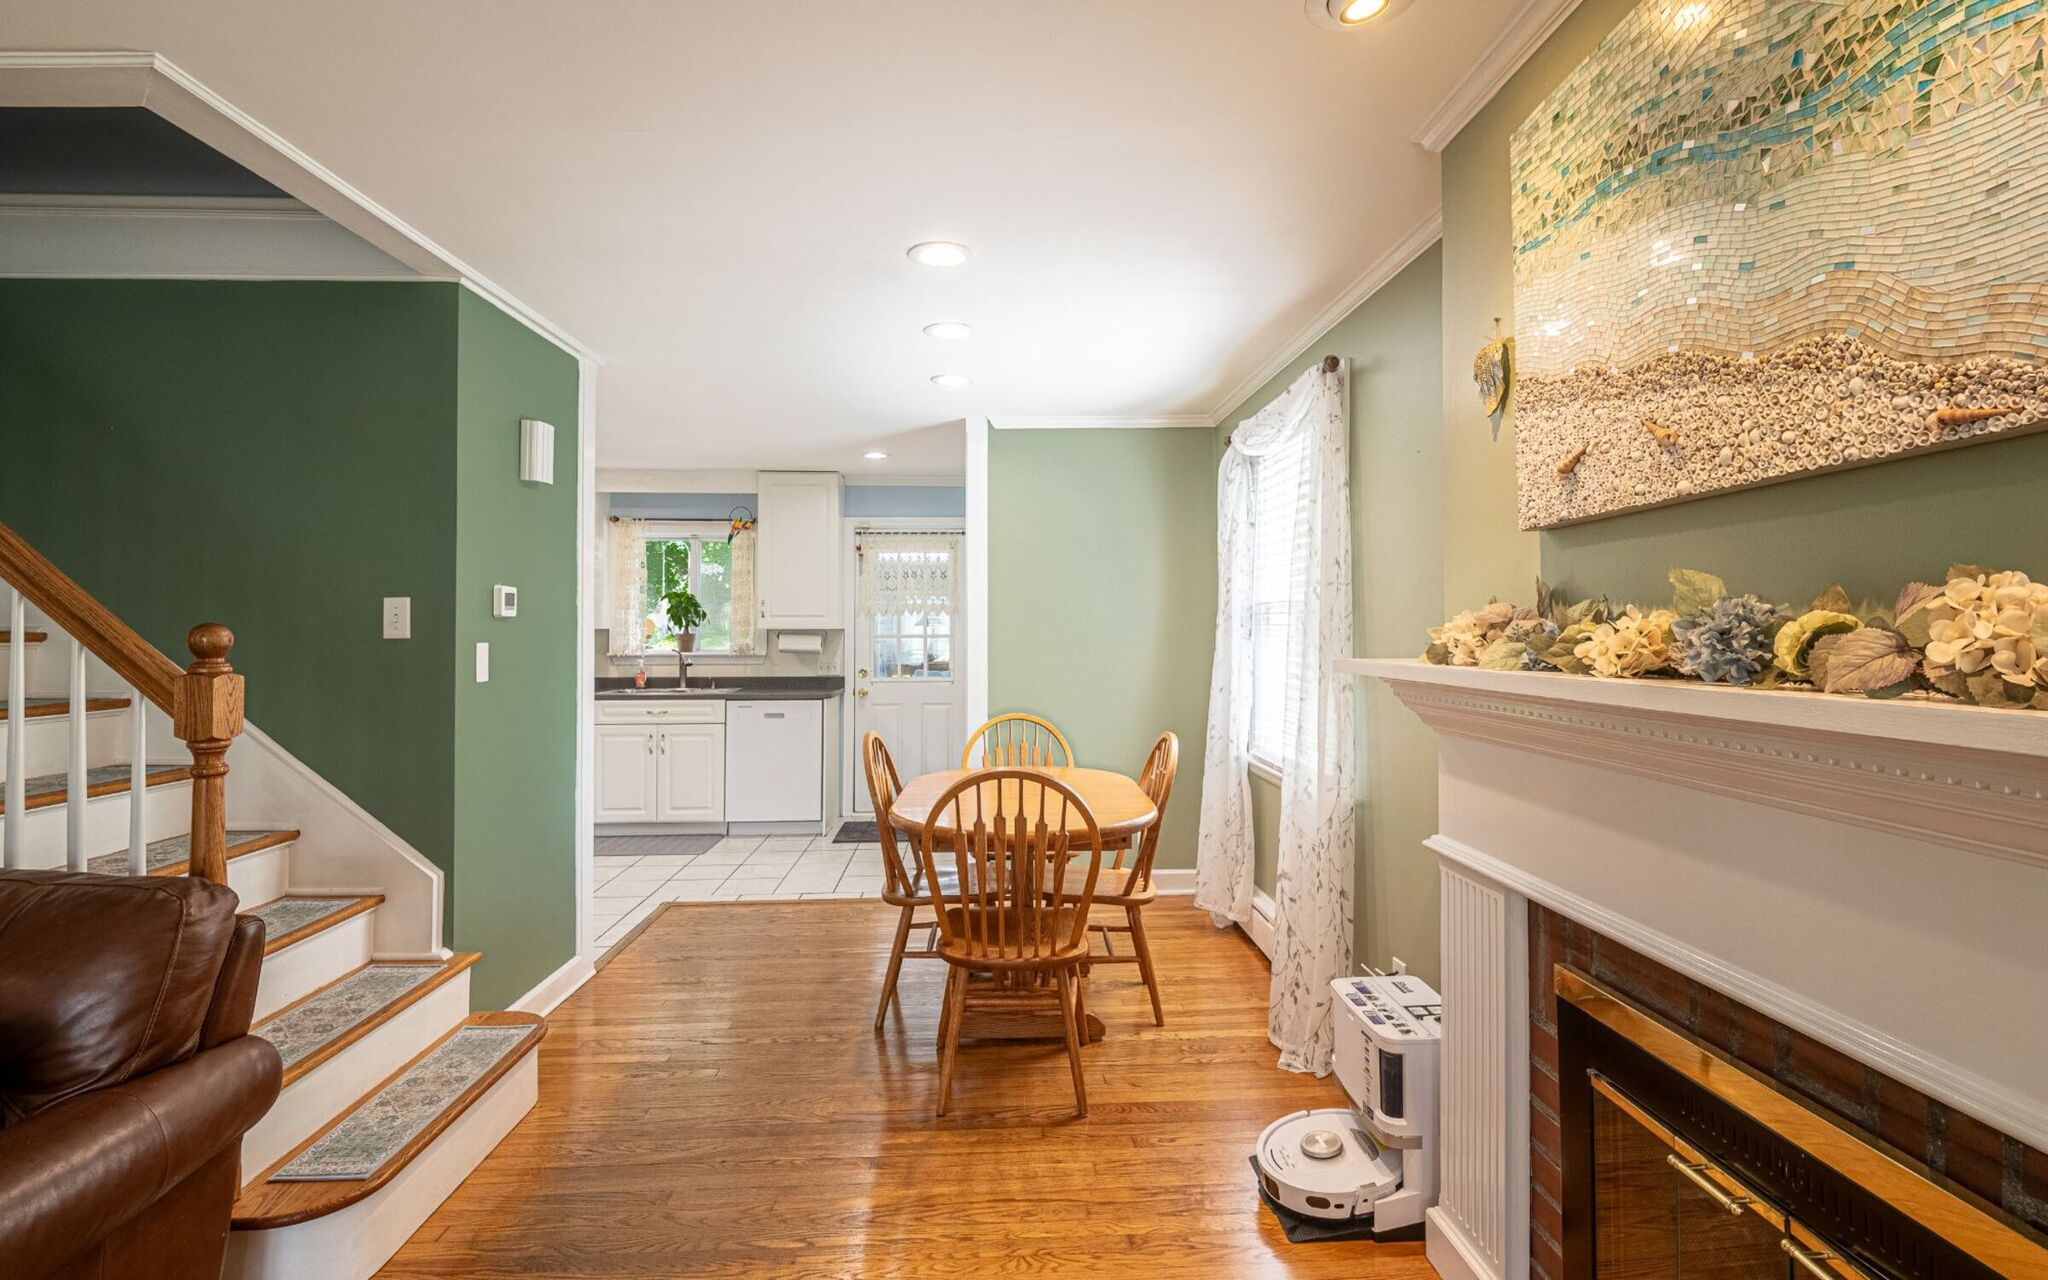
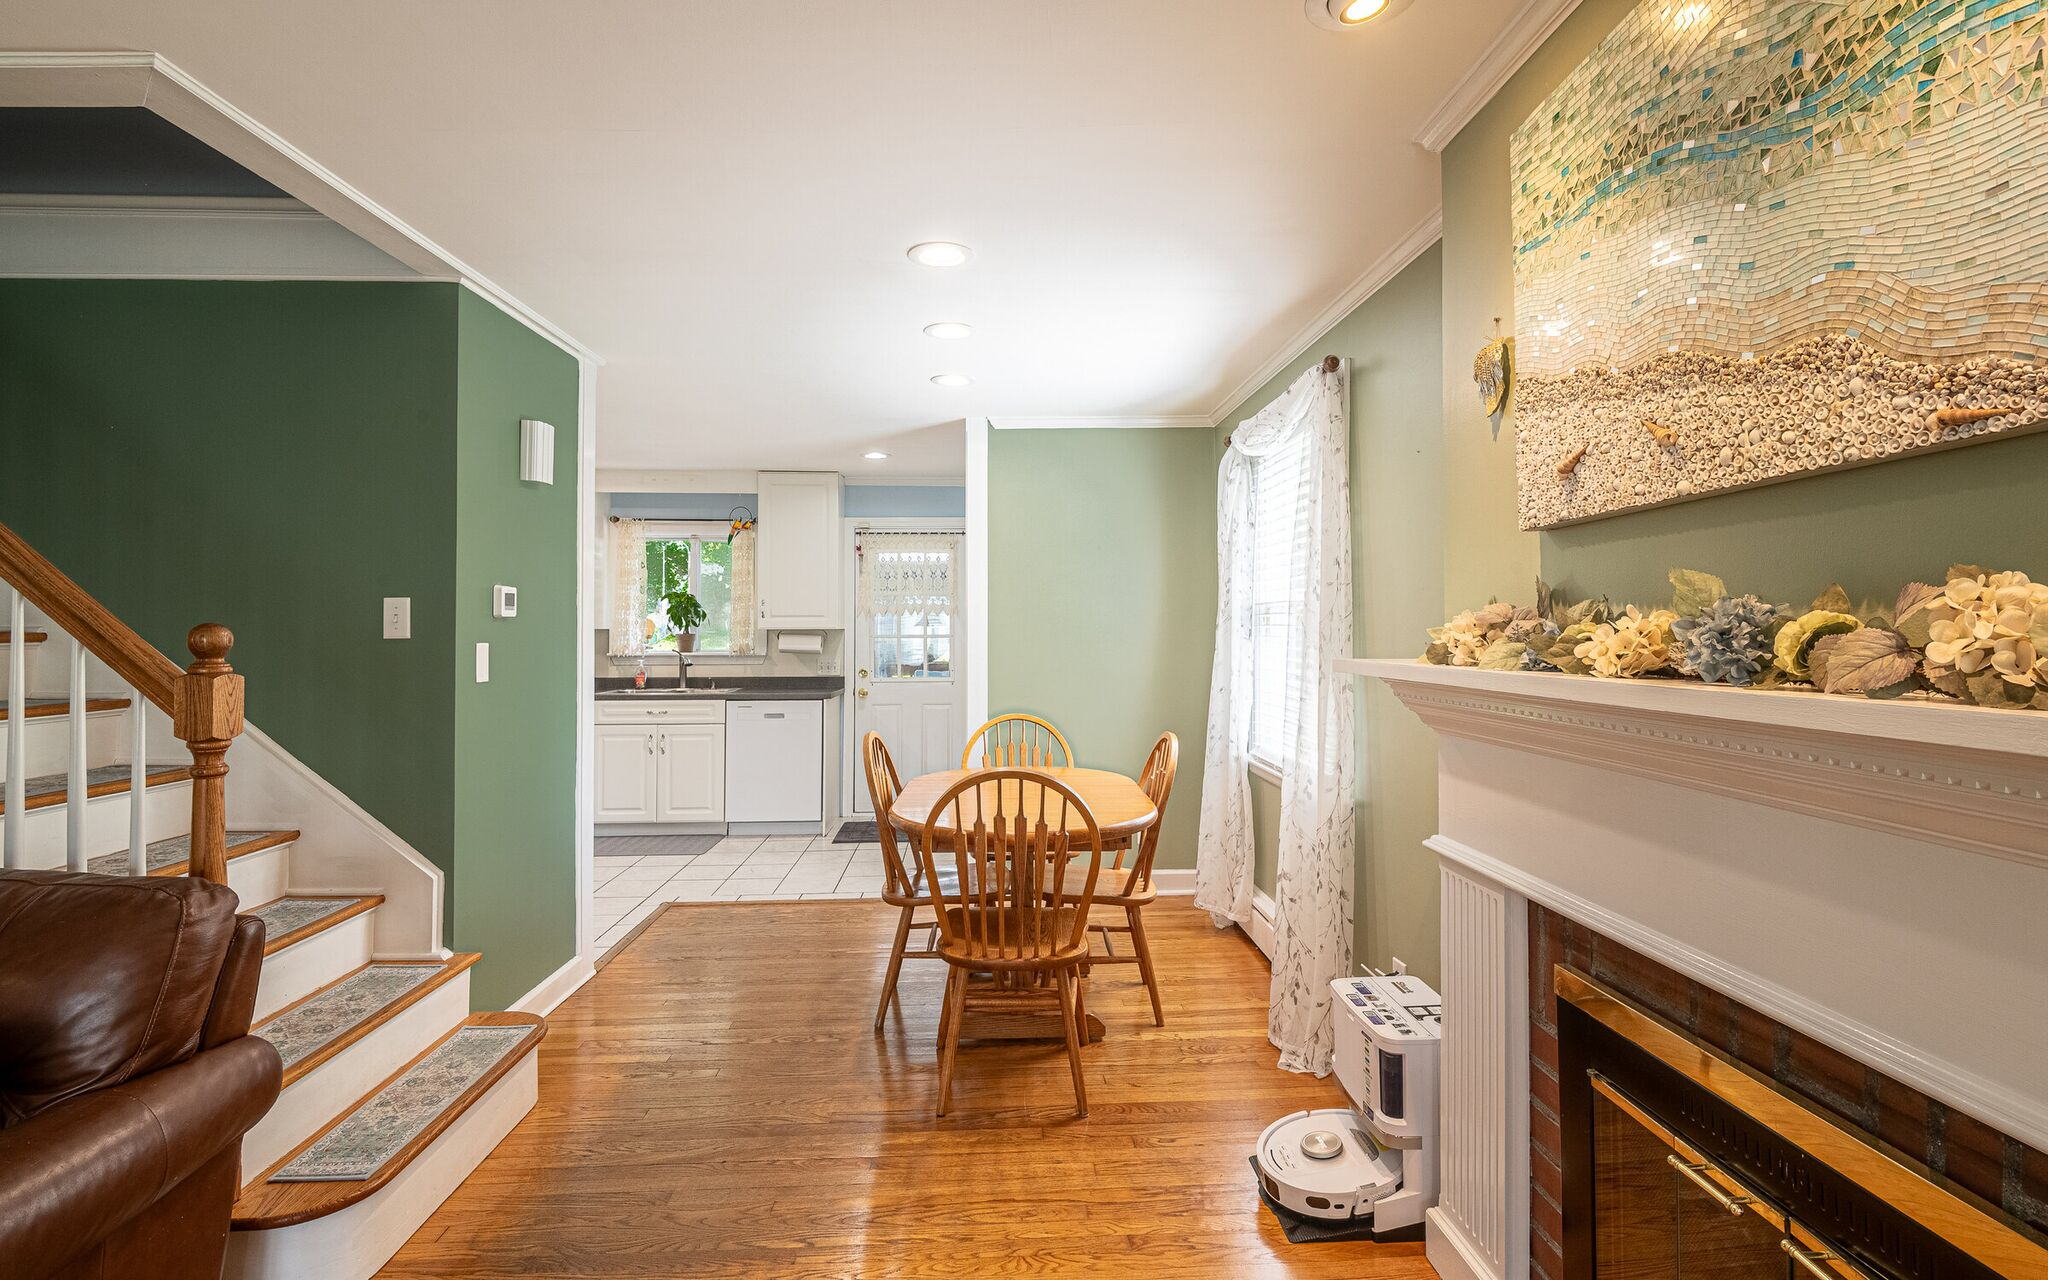
Hero lineup: add every room from the full listing photo set
Web-sized photos for all interiors (living room, fireplace, dining, kitchen,
sitting room, bedrooms, both baths), the HD dinette shot replacing the
earlier 2000px copy with its rebuilt depth map, and a 12-room
room-by-room section on every page.

Claude-Session: https://claude.ai/code/session_01UzwpAJFKiE3fTo1NZ6SUxE

diff --git a/listing-build-hero/heroes/shared/listing.html b/listing-build-hero/heroes/shared/listing.html
@@ -27,18 +27,30 @@
     <p class="kicker">Room by room</p>
     <h2 id="rooms-h">Walk through it.</h2>
     <div class="rooms" style="margin-top:28px">
-      <figure class="room"><div class="ph"><img src="media/living.jpg" alt="Living room with fireplace, looking through the dining area to the kitchen" loading="lazy"><span class="tag">Main level</span></div>
-        <figcaption><h3>Living room</h3><p>Oak floors, crown molding and a brick fireplace with a white mantel and built-in shelves. The room opens straight through dining to the kitchen.</p></figcaption></figure>
-      <figure class="room"><div class="ph"><img src="media/decktub.jpg" alt="Covered deck off the kitchen, looking out to the yard" loading="lazy"><span class="tag">Off the kitchen</span></div>
-        <figcaption><h3>The deck</h3><p>Step out of the kitchen onto a large wood deck with room for a dining set and lounge chairs, looking out over the lawn.</p></figcaption></figure>
+      <figure class="room"><div class="ph"><img src="media/front.jpg" alt="Front of the house with the entry deck and bay window" loading="lazy"><span class="tag">Curb appeal</span></div>
+        <figcaption><h3>Front entry</h3><p>A raised entry deck, a bay window and a stone-faced chimney, set back on a lawn ringed by mature pines.</p></figcaption></figure>
+      <figure class="room"><div class="ph"><img src="media/fireplace.jpg" alt="Living room fireplace with white mantel and built-in shelves" loading="lazy"><span class="tag">Main level</span></div>
+        <figcaption><h3>Living room</h3><p>Oak floors, crown molding and a brick fireplace with a white mantel and built-in shelves, lit by a wide front window.</p></figcaption></figure>
+      <figure class="room"><div class="ph"><img src="media/living.jpg" alt="View from the living room through the dining area to the kitchen" loading="lazy"><span class="tag">Main level</span></div>
+        <figcaption><h3>Dining area</h3><p>The dining area sits between the living room and the kitchen, open on both sides, with the stairs just off it.</p></figcaption></figure>
+      <figure class="room"><div class="ph"><img src="media/kitchen.jpg" alt="Kitchen with white cabinets and the back door" loading="lazy"><span class="tag">Main level</span></div>
+        <figcaption><h3>Kitchen</h3><p>White cabinets up to the ceiling, dark counters, tile floors and a half-glass door straight out to the deck.</p></figcaption></figure>
+      <figure class="room"><div class="ph"><img src="media/sitting.jpg" alt="Sitting room with two windows and a ceiling fan" loading="lazy"><span class="tag">Main level</span></div>
+        <figcaption><h3>Sitting room</h3><p>Warm walls, hardwood floors and windows on two sides. Use it as a den, an office or a reading room.</p></figcaption></figure>
+      <figure class="room"><div class="ph"><img src="media/bed1.jpg" alt="First-floor bedroom with a ceiling fan" loading="lazy"><span class="tag">Main level</span></div>
+        <figcaption><h3>First-floor bedroom</h3><p>A bright bedroom on hardwood with crown molding, a ceiling fan and a window to the trees.</p></figcaption></figure>
+      <figure class="room"><div class="ph"><img src="media/bath1.jpg" alt="First-floor full bath" loading="lazy"><span class="tag">Main level · renovated</span></div>
+        <figcaption><h3>Full bath</h3><p>A recently renovated bath with a quartz-top vanity, marble-look tile and a tub with shower.</p></figcaption></figure>
+      <figure class="room"><div class="ph"><img src="media/primary2.jpg" alt="Primary bedroom with vaulted ceiling and octagon window" loading="lazy"><span class="tag">Upstairs</span></div>
+        <figcaption><h3>Primary bedroom</h3><p>A vaulted ceiling, an octagon window, a large closet and a slider out to a private balcony over the backyard.</p></figcaption></figure>
+      <figure class="room"><div class="ph"><img src="media/bed2.jpg" alt="Upstairs bedroom with vaulted ceiling" loading="lazy"><span class="tag">Upstairs</span></div>
+        <figcaption><h3>Upstairs bedroom</h3><p>Another vaulted ceiling, with windows on two walls, an octagon window and a ceiling fan.</p></figcaption></figure>
+      <figure class="room"><div class="ph"><img src="media/bath2.jpg" alt="Second-floor full bath" loading="lazy"><span class="tag">Upstairs · remodeled</span></div>
+        <figcaption><h3>Upstairs bath</h3><p>A remodeled full bath with a stone-top vanity, brushed-nickel fixtures and a tub with a handheld shower.</p></figcaption></figure>
+      <figure class="room"><div class="ph"><img src="media/decktub.jpg" alt="Deck off the kitchen looking out to the yard" loading="lazy"><span class="tag">Off the kitchen</span></div>
+        <figcaption><h3>The deck</h3><p>A large wood deck right off the kitchen, with room for a dining set and lounge chairs, looking out over the lawn.</p></figcaption></figure>
       <figure class="room"><div class="ph"><img src="media/back.jpg" alt="Rear of the house with the deck and balcony" loading="lazy"><span class="tag">0.39 acres</span></div>
         <figcaption><h3>Backyard</h3><p>A level, landscaped lawn behind the house, with flowering rose of Sharon and the primary bedroom's balcony overhead.</p></figcaption></figure>
-      <figure class="room"><div class="ph"><img src="media/front.jpg" alt="Front of the house with the entry deck" loading="lazy"><span class="tag">Curb appeal</span></div>
-        <figcaption><h3>Front entry</h3><p>A raised entry deck, a bay window and a stone-faced chimney, set back on a lawn ringed by mature pines.</p></figcaption></figure>
-      <figure class="room"><div class="ph"><img src="media/shed.jpg" alt="Large shed beside the house" loading="lazy"><span class="tag">Storage</span></div>
-        <figcaption><h3>Shed and parking</h3><p>A large shed with double doors next to the house, plus off-street parking for six cars.</p></figcaption></figure>
-      <figure class="room"><div class="ph"><img src="media/side.jpg" alt="Side of the house with the walk-out basement" loading="lazy"><span class="tag">Lower level</span></div>
-        <figcaption><h3>Walk-out basement</h3><p>A full basement that walks out to a one-car garage, with lots of room for storage and a workshop.</p></figcaption></figure>
     </div>
     <p class="ai-note">Room descriptions drafted with AI from the listing sheet and photos, then checked against the MLS record.</p>
   </section>
